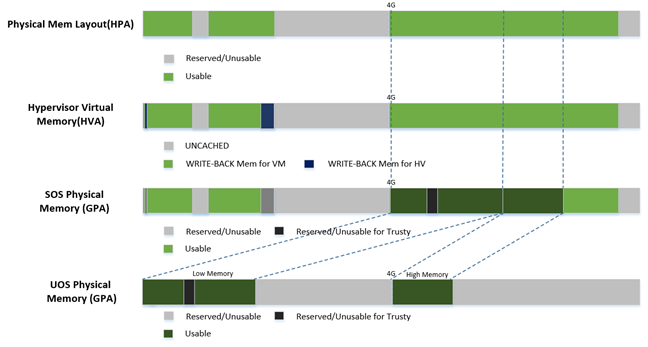
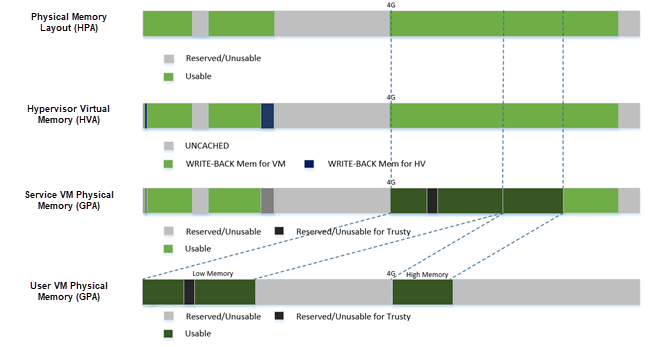
doc: terminology cleanup in mem mgmt hld
- Replace SOS or Service OS with Service VM
- Replace UOS or User OS with User VM
- Clean up some of the grammar

diff --git a/doc/developer-guides/hld/hv-memmgt.rst b/doc/developer-guides/hld/hv-memmgt.rst
@@ -16,7 +16,7 @@ translate a guest-physical address into a host-physical address. The HV enables
 EPT and VPID hardware virtualization features, establishes EPT page
 tables for Service and User VMs, and provides EPT page tables operation interfaces to others.
 
-In the ACRN hypervisor system, there are few different memory spaces to
+In the ACRN hypervisor system, there are a few different memory spaces to
 consider. From the hypervisor's point of view:
 
 -  **Host Physical Address (HPA)**: the native physical address space.
@@ -42,7 +42,7 @@ From the Guest OS running on a hypervisor:
 :numref:`mem-overview` provides an overview of the ACRN system memory
 mapping, showing:
 
--  GVA to GPA mapping based on vMMU on a VCPU in a VM
+-  GVA to GPA mapping based on vMMU on a vCPU in a VM
 -  GPA to HPA mapping based on EPT for a VM in the hypervisor
 -  HVA to HPA mapping based on MMU in the hypervisor
 
@@ -52,7 +52,8 @@ inside the hypervisor and from a VM:
 
 -  How ACRN hypervisor manages host memory (HPA/HVA)
 -  How ACRN hypervisor manages the Service VM guest memory (HPA/GPA)
--  How ACRN hypervisor and the Service VM DM manage the User MV guest memory (HPA/GPA)
+-  How ACRN hypervisor and the Service VM Device Model (DM) manage the User VM
+   guest memory (HPA/GPA)
 
 Hypervisor Physical Memory Management
 *************************************
@@ -60,8 +61,9 @@ Hypervisor Physical Memory Management
 In ACRN, the HV initializes MMU page tables to manage all physical
 memory and then switches to the new MMU page tables. After MMU page
 tables are initialized at the platform initialization stage, no updates
-are made for MMU page tables except when hv_access_memory_region_update is called.
-However, the memory region updated by hv_access_memory_region_update
+are made for MMU page tables except when ``set_paging_supervisor/nx/x`` is
+called.
+However, the memory region updated by ``set_paging_supervisor/nx/x``
 must not be accessed by the ACRN hypervisor in advance because access could
 make mapping in the TLB and there is no TLB flush mechanism for the ACRN HV memory.
 
@@ -91,12 +93,12 @@ Hypervisor Memory Initialization
 
 The ACRN hypervisor runs in paging mode. After the bootstrap
 processor (BSP) gets the platform E820 table, the BSP creates its MMU page
-table based on it. This is done by the function *init_paging()*.
+table based on it. This is done by the function ``init_paging()``.
 After the application processor (AP) receives the IPI CPU startup
 interrupt, it uses the MMU page tables created by the BSP. In order to bring
 the memory access rights into effect, some other APIs are provided:
-enable_paging will enable IA32_EFER.NXE and CR0.WP, enable_smep will
-enable CR4.SMEP, and enable_smap will enable CR4.SMAP.
+``enable_paging`` will enable IA32_EFER.NXE and CR0.WP, ``enable_smep`` will
+enable CR4.SMEP, and ``enable_smap`` will enable CR4.SMAP.
 :numref:`hv-mem-init`  describes the hypervisor memory initialization for the BSP
 and APs.
 
@@ -114,9 +116,9 @@ The following memory mapping policy used is:
   and execute-disable access right
 - Remap [0, low32_max_ram) regions to WRITE-BACK type
 - Remap [4G, high64_max_ram) regions to WRITE-BACK type
-- set the paging-structure entries' U/S flag to
+- Set the paging-structure entries' U/S flag to
   supervisor-mode for hypervisor-owned memory
-  (exclude the memory reserve for trusty)
+  (exclude the memory reserved for trusty)
 - Remove 'NX' bit for pages that contain the hv code section
 
 .. figure:: images/mem-image69.png
@@ -145,7 +147,7 @@ support map linear addresses to 4-KByte pages.
   address space mapping and 2MB hugepage can be used, the corresponding
   PDT entry shall be set for this 2MB hugepage.
 
-If the memory type or access rights of a page is updated, or some virtual
+If the memory type or access rights of a page are updated, or some virtual
 address space is deleted, it will lead to splitting of the corresponding
 page. The hypervisor will still keep using minimum memory pages to map from
 the virtual address space into the physical address space.
@@ -228,7 +230,7 @@ The hypervisor:
 Memory Virtualization Capability Checking
 =========================================
 
-In the hypervisor, memory virtualization provides EPT/VPID capability
+In the hypervisor, memory virtualization provides an EPT/VPID capability
 checking service and an EPT hugepage supporting checking service. Before the HV
 enables memory virtualization and uses the EPT hugepage, these services need
 to be invoked by other units.
@@ -247,9 +249,10 @@ instruction data.
 Access GPA From Hypervisor
 --------------------------
 
-When the hypervisor needs to access the GPA for data transfer, the caller from guest
+When the hypervisor needs to access the GPA for data transfer, the caller from
+a guest
 must make sure this memory range's GPA is continuous. But for HPA in the
-hypervisor, it could be discontinuous (especially for User VM under hugetlb
+hypervisor, it could be discontinuous (especially for a User VM under hugetlb
 allocation mechanism). For example, a 4M GPA range may map to 2
 different 2M huge host-physical pages. The ACRN hypervisor must take
 care of this kind of data transfer by doing EPT page walking based on
@@ -278,13 +281,13 @@ space.
 - If both 1GB hugepage and 2MB hugepage can't be used for GPA
   space mapping, the corresponding EPT PT entry shall be set.
 
-If memory type or access rights of a page is updated or some GPA space
+If memory type or access rights of a page are updated or some GPA space
 is deleted, it will lead to the corresponding EPT page being split. The
 hypervisor should still keep to using minimum EPT pages to map from GPA
 space into HPA space.
 
-The hypervisor provides EPT guest-physical mappings adding service, EPT
-guest-physical mappings modifying/deleting service and EPT guest-physical
+The hypervisor provides an EPT guest-physical mappings adding service, EPT
+guest-physical mappings modifying/deleting service, and EPT guest-physical
 mappings invalidation service.
 
 Virtual MTRR
@@ -301,14 +304,14 @@ hypervisor uses the default memory type in the MTRR (Write-Back).
 When the guest disables MTRRs, the HV sets the guest address memory type
 as UC.
 
-If the guest physical address is in fixed range (0~1MB), the HV sets
-memory type according to the fixed virtual MTRRs.
+If the guest physical address is in the fixed range (0~1MB), the HV sets
+the memory type according to the fixed virtual MTRRs.
 
-When the guest enable MTRRs, MTRRs have no effect on the memory type
+When the guest enables MTRRs, MTRRs have no effect on the memory type
 used for access to GPA. The HV first intercepts MTRR MSR registers
-access through MSR access VM exit and updates EPT memory type field in EPT
-PTE according to the memory type selected by MTRRs.  This combines with
-PAT entry in the PAT MSR (which is determined by PAT, PCD, and PWT bits
+access through MSR access VM exit and updates the EPT memory type field in EPT
+PTE according to the memory type selected by MTRRs.  This combines with the
+PAT entry in the PAT MSR (which is determined by the PAT, PCD, and PWT bits
 from the guest paging structures) to determine the effective memory
 type.
 
@@ -466,15 +469,16 @@ VPID
 .. doxygenfunction:: flush_vpid_global
    :project: Project ACRN
 
-Service OS Memory Management
+Service VM Memory Management
 ****************************
 
 After the ACRN hypervisor starts, it creates the Service VM as its first
 VM. The Service VM runs all the native device drivers, manages the
-hardware devices, and provides I/O mediation to guest VMs. The Service
-OS is in charge of the memory allocation for Guest VMs as well.
+hardware devices, and provides I/O mediation to post-launched User VMs. The
+Service VM is in charge of the memory allocation for post-launched User VMs as
+well.
 
-ACRN hypervisor passes the whole system memory access (except its own
+The ACRN hypervisor passes the whole system memory access (except its own
 part) to the Service VM. The Service VM must be able to access all of
 the system memory except the hypervisor part.
 
@@ -482,28 +486,28 @@ Guest Physical Memory Layout - E820
 ===================================
 
 The ACRN hypervisor passes the original E820 table to the Service VM
-after filtering out its own part. So from Service VM's view, it sees
+after filtering out its own part. From the Service VM's view, it sees
 almost all the system memory as shown here:
 
 .. figure:: images/mem-image3.png
    :align: center
    :width: 900px
-   :name: sos-mem-layout
+   :name: service-vm-mem-layout
 
    Service VM Physical Memory Layout
 
 Host to Guest Mapping
 =====================
 
-ACRN hypervisor creates the Service OS's guest (GPA) to host (HPA) mapping
-(EPT mapping) through the function ``prepare_sos_vm_memmap()``
+The ACRN hypervisor creates the Service VM's guest (GPA) to host (HPA) mapping
+(EPT mapping) through the function ``prepare_service_vm_memmap()``
 when it creates the Service VM. It follows these rules:
 
 -  Identical mapping
--  Map all memory range with UNCACHED type
+-  Map all memory ranges with UNCACHED type
 -  Remap RAM entries in E820 (revised) with WRITE-BACK type
 -  Unmap ACRN hypervisor memory range
--  Unmap all platform EPC resource
+-  Unmap all platform EPC resources
 -  Unmap ACRN hypervisor emulated vLAPIC/vIOAPIC MMIO range
 
 The guest to host mapping is static for the Service VM; it will not
@@ -515,9 +519,9 @@ in the hypervisor for Service VM.
 Trusty
 ******
 
-For an Android User OS, there is a secure world named trusty world
-support, whose memory must be secured by the ACRN hypervisor and
-must not be accessible by the Service/User VM normal world.
+For an Android User VM, there is a secure world named trusty world,
+whose memory must be secured by the ACRN hypervisor and
+must not be accessible by the Service VM and User VM normal world.
 
 .. figure:: images/mem-image18.png
    :align: center
